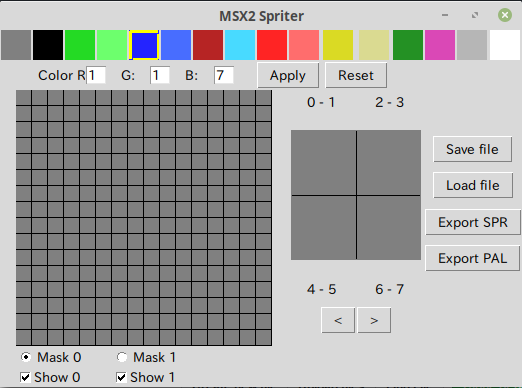
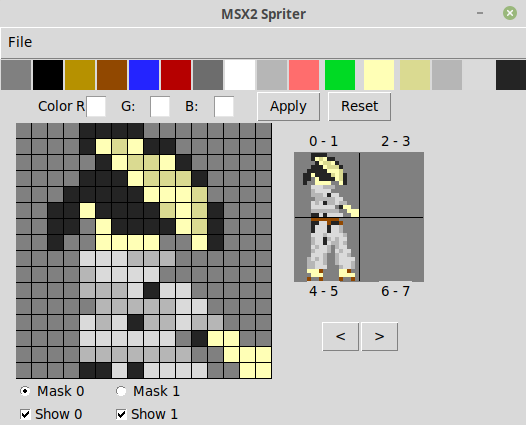
tile mode

diff --git a/msx2spriter.py b/msx2spriter.py
@@ -711,13 +711,17 @@ def update_icon_window(win_no=None):
         global pattern_y_ofs 
         global pattern_x_ofs 
         global pattern_icon_selected
-        i = 0
-        while i < spriteSize*spriteSize:
-            cur_px = patterndata[icon_selected][i]
-            intval = palette_display[cur_px].myVal
-            topaint = single_intcol_to_hex(intval)
-            iconCanvas.itemconfig(smallpatternpx[pattern_icon_selected][i], fill=topaint)
-            i += 1
+        if (icon_selected >= (pattern_x_ofs+(pattern_y_ofs*32)) and icon_selected <= 7+(pattern_x_ofs+(pattern_y_ofs*32)))\
+            or (icon_selected >= (pattern_x_ofs+(pattern_y_ofs*32))+32 and icon_selected <= 7+(pattern_x_ofs+(pattern_y_ofs*32))+32)\
+            or (icon_selected >= (pattern_x_ofs+(pattern_y_ofs*32))+64 and icon_selected <= 7+(pattern_x_ofs+(pattern_y_ofs*32))+64)\
+            or (icon_selected >= (pattern_x_ofs+(pattern_y_ofs*32))+96 and icon_selected <= 7+(pattern_x_ofs+(pattern_y_ofs*32))+96):
+            i = 0
+            while i < spriteSize*spriteSize:
+                cur_px = patterndata[icon_selected][i]
+                intval = palette_display[cur_px].myVal
+                topaint = single_intcol_to_hex(intval)
+                iconCanvas.itemconfig(smallpatternpx[pattern_icon_selected][i], fill=topaint)
+                i += 1
         return 
     #return
 
@@ -804,13 +808,12 @@ def save_as():
     global filename 
     global patternMode
     if patternMode == True:
-        #messagebox.showwarning("Error","Saving not supported for tile mode.")
         filename = tk.filedialog.asksaveasfilename(title='Save MSX2 Spriter file', filetypes=( ('MSX2 Spriter pattern file', '*.m2p'),('All files', '*.*') ))
-        #return 
     else:
         filename = tk.filedialog.asksaveasfilename(title='Save MSX2 Spriter file', filetypes=( ('MSX2 Spriter sprite file', '*.m2s'),('All files', '*.*') ))
-    if filename == '':
+    if filename == '' or type(filename)==tuple:
         return 
+    print(filename)
     if patternMode == True:
         savem2p()
     else:
@@ -819,22 +822,34 @@ def save_as():
 def load_as(reset=False):
     global filename 
     global patternMode 
-    if patternMode == True:
-        messagebox.showwarning("Error","Loading for M2P not supported yet")
-        return 
-    filename = tk.filedialog.askopenfilename(title='Load MSX2 Spriter file', filetypes=( ('MSX2 Spriter file', '*.m2s'),('All files', '*.*') ))
-    if filename == '':
-        return 
     if reset == True:
         initialize_new(patternMode, True)
-    loadm2s()
+    if patternMode == False:
+        loadm2s()
+    else:
+        loadm2p()
 def load_pattern_as():
+    global filename 
     global patternMode
-    patternMode = True
-    load_as()
+    filename = tk.filedialog.askopenfilename(title='Load MSX2 Spriter file', filetypes=( ('MSX2 Spriter pattern file', '*.m2p'),('All files', '*.*') ))
+    if filename == '':
+        return 
+    if type(filename) == tuple:
+        return 
+    reset = False 
+    if patternMode != True:
+        patternMode = True
+        reset = True
+    load_as(reset)
     #return 
 def load_sprite_as():
+    global filename 
     global patternMode
+    filename = tk.filedialog.askopenfilename(title='Load MSX2 Spriter file', filetypes=( ('MSX2 Spriter sprite file', '*.m2s'),('All files', '*.*') ))
+    if filename == '':
+        return 
+    if type(filename) == tuple:
+        return
     reset = False
     if patternMode != False:
         patternMode = False
@@ -1190,8 +1205,58 @@ def export_pal_data():
 
 import tkinter.messagebox as messagebox
 
+def loadm2p():
+    global filename 
+    global spriteSize
+    spriteSize = 8
+    f = None 
+    try: 
+        f = open(filename, 'r')
+        data = f.readline()
+        global palette_display
+        global currentColor 
+        palette_vals = data.split(',')
+        i = 0
+        while i < 16:
+            palette_display[i].myVal = palette_vals[i]
+            currentColor = i 
+            i += 1
+        resetPalette(palette_vals)
+        currentColor = 'trans'
+        #patterndata
+        j = 0
+        while j < (3*256):
+            data = f.readline().split(',')
+            data.pop()
+            data_int=[]
+            i = 0
+            while i < (spriteSize*spriteSize):
+                data_int.append(int(data[i]))
+                patterndata[j][i] = data_int[i]
+                i += 1
+            global pixels_mask1
+            global icon_selected
+            pixels_mask1 = patterndata[0].copy()
+            icon_selected = 0
+            global pattern_x_ofs
+            global pattern_y_ofs
+            pattern_x_ofs = 0
+            pattern_y_ofs = 0
+            j += 1
+        refresh_display(True)
+    except IOError:
+        messagebox.showerror("I/O error", message="Failed to load file. Check drives and permissions and try again.")
+    except:
+        messagebox.showerror("Unexpected error", message="Unknown error loading file. Ensure the file is a proper M2P file.")
+    finally:
+        if(f):
+            f.close()
+
+
 def loadm2s():
     global filename
+    global spriteSize
+    spriteSize = 16
     f = None 
     try:
         f = open(filename, 'r')
@@ -1242,7 +1307,35 @@ def resetPalette(newpal):
 
 def savem2p():
     # save as MSX2 Spriter pattern file
-    
+    global filename 
+    if filename == '' or type(filename)==tuple:
+        return
+    p = []
+    f = None 
+    for n in palette_display:
+        p.append(n.myVal)
+    try:
+        f = open(filename, 'w')
+        for item in p: 
+            f.write('%s,' % item)
+        for n in patterndata:
+            f.write('\n')
+            for item in n:
+                f.write('%s,' % item)
+        messagebox.showinfo("Save OK", message="Save successful.")
+        global saved 
+        saved = True 
+    except IOError:
+        #global filename 
+        filename = ''
+        messagebox.showerror("I/O error", message="Output error saving file. Check drives and permissions and try again.")
+    except:
+        #global filename 
+        filename = ''
+        messagebox.showerror("Unexpected error", message="Unknown error saving file. This might be a bug!!")
+    finally:
+        if(f):
+            f.close()
     return
 
 def savem2s():
@@ -1260,7 +1353,11 @@ def savem2s():
             for item in n:
                 f.write('%s,'%item)
         messagebox.showinfo("Save OK", message="Save successful.")
+        global saved 
+        saved = True 
     except IOError:
+        #global filename 
+        filename = ''
         messagebox.showerror("I/O error", message="Output error saving file. Check drives and permissions and try again.")
     except:
         messagebox.showerror("Unexpected error", message="Unknown error saving file. This might be a bug!!")
@@ -1268,34 +1365,60 @@ def savem2s():
         if(f):
             f.close()
 
+saved = False
 # define menus
 def client_exit():
-    result = messagebox.askquestion("Quit", "Save changes before quit?", icon='warning')
+    result = messagebox.askquestion("Quit", "Save changes before quit?", icon='warning', type='yesnocancel')
     if result == 'yes':
+        global saved 
+        saved = False 
         save_normal()
+        if saved == True:
+            exit()
+        else:
+            global filename 
+            filename = ''
+            return 
+    elif result == 'no':
         exit()
-    else:
-        exit()
+    elif result == 'cancel':
+        return
 
 def new_file():
     # ask if ok, if not, open save_normal dialog
-    global patternMode 
+    global patternMode
+    global filename  
     result = messagebox.askquestion("New file", "Save changes before creating new file?", icon='warning')
     if result == 'yes':
-        save_normal()
+        global saved 
+        saved = False 
+        if patternMode == True:
+            save_normal_pattern()
+        else:
+            save_normal_sprite()
+        if saved==False:
+            filename = '' 
+            return 
     patternMode = False 
+    filename = ''
     initialize_new(patternMode)
 
 def new_pattern_file():
-    #os.execl(sys.executable, os.path.abspath(__file__), *sys.argv)
-    global patternMode 
+    global patternMode
+    global filename  
     result = messagebox.askquestion("New file", "Save changes before creating new file?", icon='warning')
     if result == 'yes':
+        global saved 
+        saved = False
         if patternMode == True:
-            messagebox.showwarning("Error", "Saving not supported for tile mode yet!")
+            save_normal_pattern()
         else:
-            save_normal()
-    patternMode = True 
+            save_normal_sprite()
+        if saved == False:
+            filename = '' 
+            return 
+    patternMode = True
+    filename = '' 
     initialize_new(patternMode)
 
 def save_normal_sprite():
@@ -1312,7 +1435,11 @@ def save_normal():
     if filename == '':
         save_as()
     else:
-        savem2s()
+        global patternMode 
+        if patternMode == False:
+            savem2s()
+        else:
+            savem2p()
     #return
 
 menuBar = tk.Menu(app)
@@ -1322,7 +1449,7 @@ fileMenu.add_command(label="New pattern file", command=new_pattern_file)
 fileMenu.add_command(label="Save", command=save_normal_sprite)
 fileMenu.add_command(label="Save As .M2S...", command=save_sprite_as)
 fileMenu.add_command(label="Load .M2S Sprite...", command=load_sprite_as)
-fileMenu.add_cascade(label='Load .M2P Pattern...', command=load_pattern_as)
+fileMenu.add_command(label="Load .M2P Pattern...", command=load_pattern_as)
 fileMenu.add_separator()
 fileMenu.add_command(label="Export z80 sprite data...", command=export_asm_data)
 fileMenu.add_command(label="Export z80 palette data...", command=export_pal_data)
@@ -1339,27 +1466,35 @@ bd = None
 
 def pattern_move_back():
     global pattern_x_ofs
+    global pattern_icon_selected
     if pattern_x_ofs > 0:
+        pattern_icon_selected += 1
         pattern_x_ofs -= 1
     refresh_display(True)
     return
 def pattern_move_fwd():
     global pattern_x_ofs
+    global pattern_icon_selected
     if pattern_x_ofs < (32-8):
         pattern_x_ofs += 1
+        pattern_icon_selected -= 1
     refresh_display(True)
     return
 def pattern_move_up():
     global pattern_y_ofs
+    global pattern_icon_selected
     if pattern_y_ofs > 0:
         pattern_y_ofs -= 1
+        pattern_icon_selected += 8
     refresh_display(True)
     l1.configure(text="Table {} / 3".format(math.floor(pattern_y_ofs/8)+1))
     return 
 def pattern_move_down():
     global pattern_y_ofs
+    global pattern_icon_selected
     if pattern_y_ofs < (8*3)-4:
         pattern_y_ofs += 1
+        pattern_icon_selected -= 8
     refresh_display(True)
     l1.configure(text="Table {} / 3".format(math.floor(pattern_y_ofs/8)+1))
     return 
